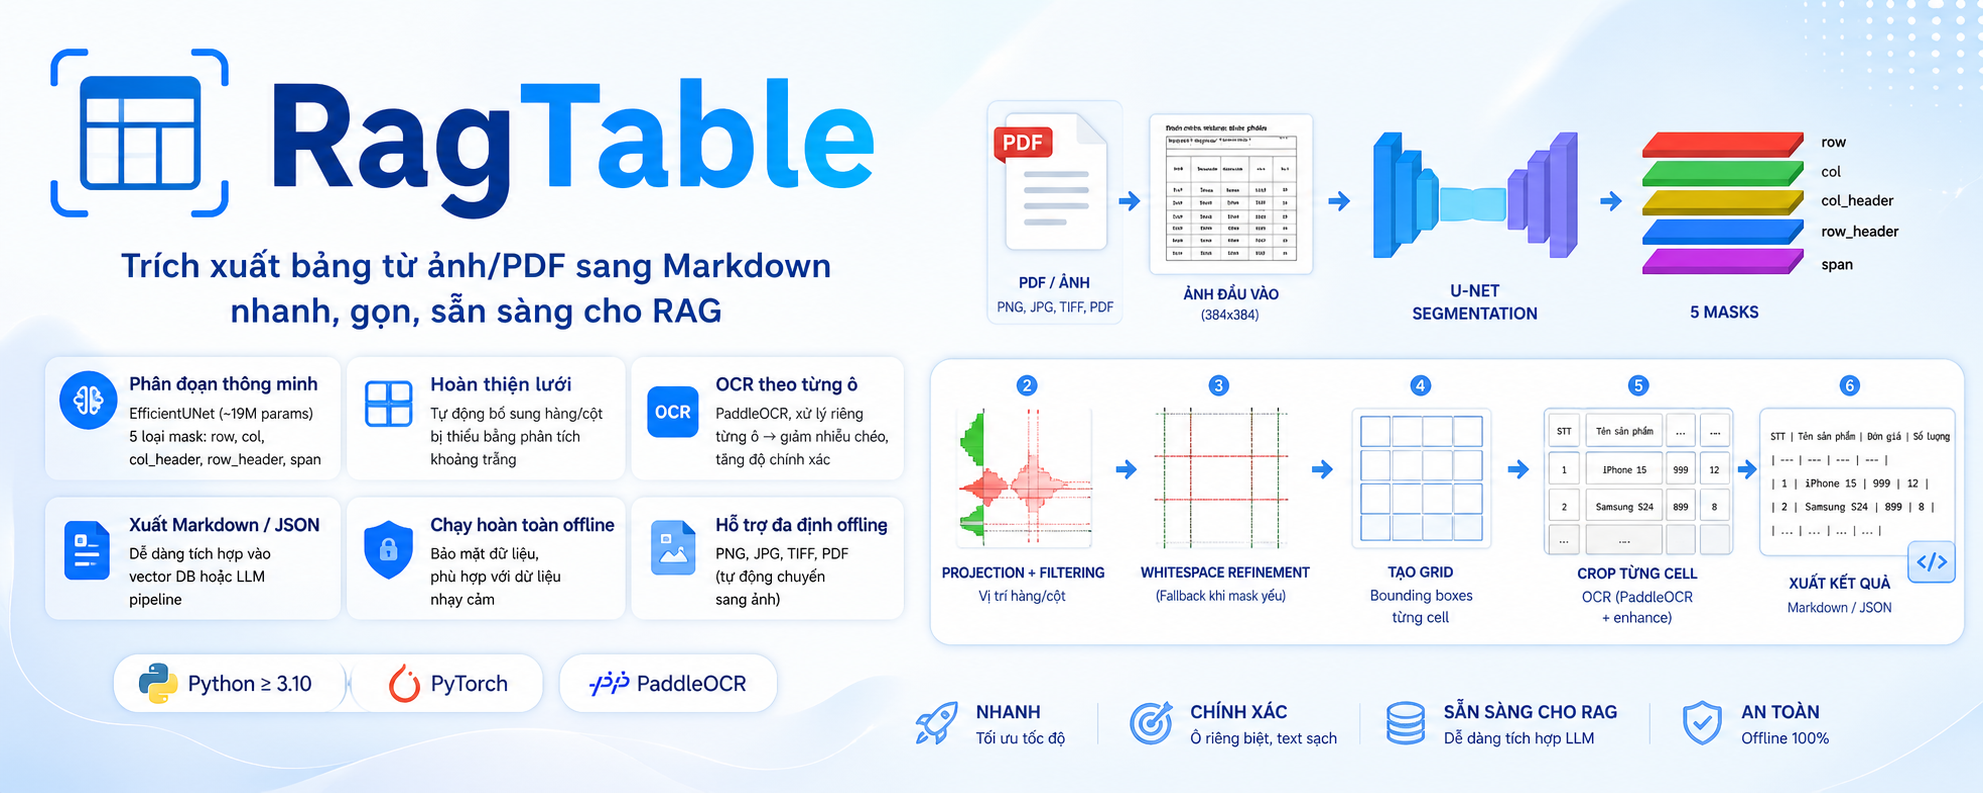
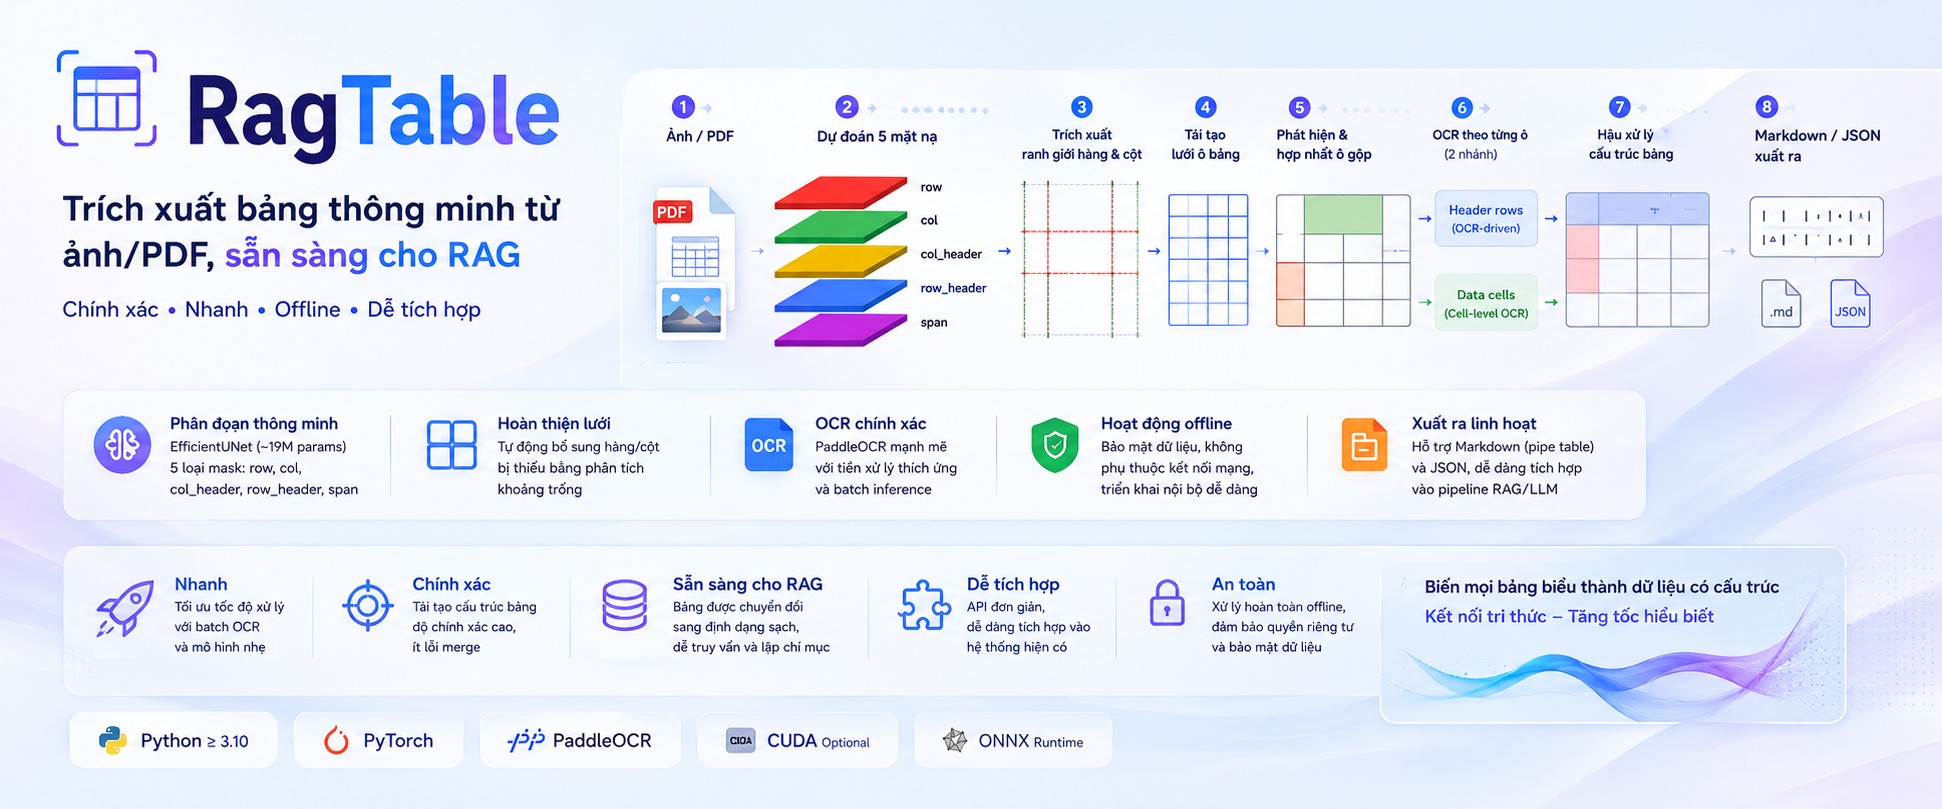
feat/update-final-v1

diff --git a/python/ragtab/__init__.py b/python/ragtab/__init__.py
@@ -2,3 +2,5 @@ from .pipeline import image_to_markdown_v3, cells_to_markdown, extract_table
 from .detection import masks_to_cell_boxes
 from .ocr import crop_and_ocr
 from .heuristic import bordered_table_extraction
+
+__version__ = "0.1.2"

diff --git a/python/ragtab/utils.py b/python/ragtab/utils.py
@@ -2,13 +2,13 @@ from PIL import Image
 from paddleocr import PaddleOCR
 import torchvision.transforms.functional as TF
 from dataclasses import dataclass
-
 @dataclass
 class Cell:
     row_idx: int
     col_idx: int
     x: int; y: int; w: int; h: int
     is_span: bool = False
+    col_span: int = 1
     text: str = ""
 
 ocr = PaddleOCR(

diff --git a/README.md b/README.md
@@ -42,6 +42,12 @@ pip install ragtab
 - PyTorch (install separately if not already present)
 - PaddleOCR (installed automatically)
 
+**PaddleOCR requires `paddlepaddle` — install separately based on your platform:**
+
+```bash
+pip install paddlepaddle
+```
+
 ### Install from source
 
 ```bash
@@ -129,14 +135,12 @@ RagTable/
 
 ---
 
-## Model & checkpoints
-
-RagTable uses a U-Net checkpoint (`.pt`). You can:
+## Model & Checkpoints
 
 - **Train from scratch** using `notebooks/02_table-recognition.ipynb`
-- **Download a pretrained checkpoint** (Google Drive / Hugging Face)
-- **Google Drive: https://drive.google.com/drive/folders/1ILV2zmI6Go-u16bFRbM_Hi1vAyLzc1dQ?usp=drive_link
-- **Hugging Face: https://huggingface.co/henryhs/rag-table/blob/main/unet_best.pt
+- **Download pretrained checkpoint:**
+  - [Google Drive](https://drive.google.com/drive/folders/1ILV2zmI6Go-u16bFRbM_Hi1vAyLzc1dQ?usp=drive_link)
+  - [Hugging Face](https://huggingface.co/henryhs/rag-table/blob/main/unet_best.pt)
 
 Place the checkpoint at `checkpoints/unet_best.pt` and pass it via `model_path`.
 

diff --git a/python/README.md b/python/README.md
@@ -29,6 +29,12 @@ pip install ragtab
 - PyTorch (install separately if not already present)
 - PaddleOCR (installed automatically)
 
+**PaddleOCR requires `paddlepaddle` — install separately based on your platform:**
+
+```bash
+pip install paddlepaddle
+```
+
 ### Install from source
 
 ```bash
@@ -98,12 +104,10 @@ Each stage is independently accessible so you can customize or swap components.
 
 ## Model & Checkpoints
 
-RagTable uses a U-Net checkpoint (`.pt`). You can:
-
 - **Train from scratch** using `notebooks/02_table-recognition.ipynb`
-- **Download a pretrained checkpoint** (Google Drive / Hugging Face — contact author)
-- **Google Drive: https://drive.google.com/drive/folders/1ILV2zmI6Go-u16bFRbM_Hi1vAyLzc1dQ?usp=drive_link
-- **Hugging Face: https://huggingface.co/henryhs/rag-table/blob/main/unet_best.pt
+- **Download pretrained checkpoint:**
+  - [Google Drive](https://drive.google.com/drive/folders/1ILV2zmI6Go-u16bFRbM_Hi1vAyLzc1dQ?usp=drive_link)
+  - [Hugging Face](https://huggingface.co/henryhs/rag-table/blob/main/unet_best.pt)
 
 Place the checkpoint at `checkpoints/unet_best.pt` and pass it via `model_path`.
 